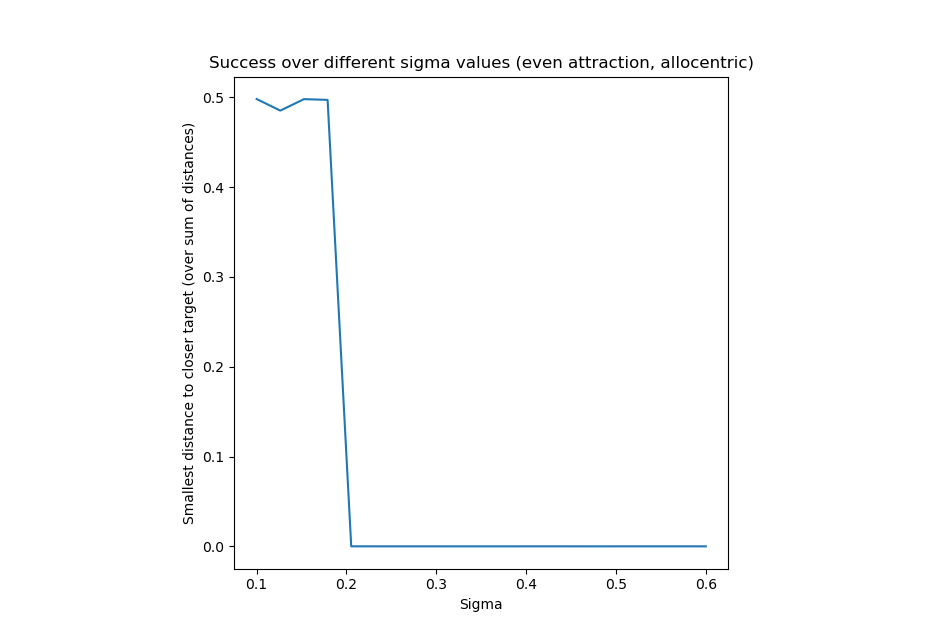
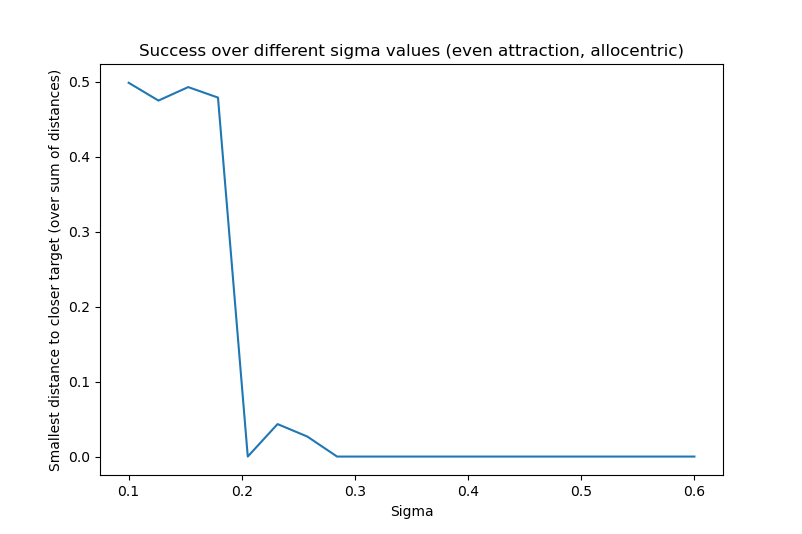
updating a few plots

diff --git a/simulations.py b/simulations.py
@@ -79,15 +79,15 @@ for i in range(N):
 # --- Details of the simulation to change ---
 
 # 1 is allo, 0 is ego
-allocentricFlag = [0]
+allocentricFlag = [1]
 
 # attraction vector, first are attraction for targets, then agents
-h0s = [[0.45,0.46]]
+h0s = [[0.45,0.45]]
 
-h_b = [0.27,0.29,0.31,0.33,0.35,0.37]
+h_b = [0.2]
 
 # width of the gauss bump 
-sigma = [0.5]
+sigma = np.linspace(0.1,0.6, num=20)
 
 # noise parameter 
 beta = [100]
@@ -103,10 +103,10 @@ decision1_time = []
 decision2_time = []
 
 # number of times to run the simulation
-n_samples = 20
+n_samples = 50
 
 # controls whether or not we plot trajectories
-plot_traj = True
+plot_traj = False
 # -------- Running the simulation --------
 
 # this is running the sim with a bunch of changes in variables
@@ -117,6 +117,7 @@ for orientation in range(len(allocentricFlag)):
         h0 = h0s[h]
         for hb in range(len(h_b)):
             for s in range(len(sigma)):
+                print(f"sigma number: {s}")
                 for b in range(len(beta)):
                     if plot_traj == True:
                         x_sums = np.zeros((1,51))
@@ -127,7 +128,7 @@ for orientation in range(len(allocentricFlag)):
                         headings, xPos, yPos, targetsx, targetsy = simulate_ringattractor.simulate_ring_attractor(N,L,T,ntargets,nagents,allocentricFlag[orientation],periodicflag,rEgo,rEgoTarget,Egonumber,
                                     distf,adistf,J,beta[b],h0,h_b[hb],dt,v0,v0t,sigma[s],hColl,rColl,
                                     initialx,initialy,initialxt,initialyt,False,False)
-                        success_measure = simulation_metrics.get_min_distance(xPos, yPos, targetsx, targetsy, True, 1)
+                        success_measure = simulation_metrics.get_min_distance(xPos, yPos, targetsx, targetsy, False, 1)
                         if plot_traj == True:
                             x_sliced = xPos[:,::100]
                             y_sliced = yPos[:,::100]
@@ -144,15 +145,15 @@ if plot_traj == True:
     plt.figure(1)
     simulation_metrics.plot_trajectories(x_trajs,y_trajs,initialxt,initialyt,
                                      ['powderblue','deepskyblue','blue','navy','slateblue','darkviolet'],L,
-                                     "Average trajectories across hb values from 0.27 to 0.37 from 20 samples")
+                                     "Average trajectories across hb values from 0 to 0.05 from 20 samples")
 
 
 # plot x axis as param of interest, plot y axis as success measure
 plt.figure(2)
-plt.plot(h_b, mean_distance)
-plt.title("Success over different base attraction values (uneven attraction, egocentric)")
-plt.xlabel("Base attraction")
-plt.ylabel("Smallest distance to better target (over sum of distances)")
+plt.plot(sigma, mean_distance)
+plt.title("Success over different sigma values (even attraction, allocentric)")
+plt.xlabel("Sigma")
+plt.ylabel("Smallest distance to closer target (over sum of distances)")
 plt.show()
 
 
